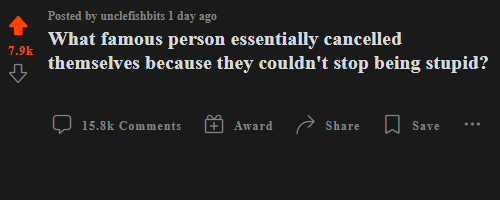
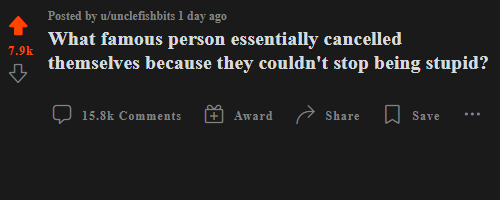
Fetch reddit comments and generate images

diff --git a/src/Puppeteer.ts b/src/Puppeteer.ts
@@ -1,11 +1,71 @@
-import puppeteer from "puppeteer";
+import puppeteer, { Page } from "puppeteer";
 import path from "path";
 import fs from "fs";
 import { IRedditPost } from "./Interface";
 import { formatUpvotes } from "./Utilts.js";
 
-export const go = async (post: IRedditPost) => {
-  const browser = await puppeteer.launch({ headless: false });
+export const startBrowser = async () => {
+  const browser = await puppeteer.launch();
+  const page = await browser.newPage();
+
+  return { browser, page };
+};
+
+export const openAnswer = async (page: Page, comment: IRedditPost) => {
+  await page.setViewport({ width: 470, height: 300, deviceScaleFactor: 10 });
+
+  const __dirname = path.resolve(path.dirname("."));
+  var content = fs.readFileSync(`${__dirname}/comment.html`, "utf-8");
+
+  const upvotesFormated = formatUpvotes(comment.upvotes);
+
+  const json = await fetch(
+    `https://www.reddit.com/user/${comment.author}/about.json`
+  );
+  const data = await json.json();
+  const icon = data.data.snoovatar_img;
+
+  content = content.replace("(AUTHOR)", comment.author);
+  content = content.replace("(TEXT)", comment.text);
+  content = content.replace("(UPVOTES)", upvotesFormated);
+  content = content.replace("(ICON)", icon);
+  const css = fs.readFileSync(`${__dirname}/stylescomment.css`, "utf-8");
+  content = content.replace("(STYLE)", css);
+
+  //Change local fonts to redit fonts
+  content = content.replace(
+    '"font.woff"',
+    `"https://www.redditstatic.com/desktop2x/fonts/redesignIcon2020/redesignFont2020.971ac4e47ee7863c9338c58b059a0c86.woff"`
+  );
+  content = content.replace(
+    '"font2.woff2"',
+    `"https://www.redditstatic.com/desktop2x/fonts/IBMPlexSans/Bold-875de5047556e7c822519d95d7ee692d-font.woff2"`
+  );
+  await page.setContent(content);
+
+  const headerElem = await page.$(".header");
+  const headerHeight = await headerElem.evaluate(
+    (e) => e.getBoundingClientRect().height
+  );
+
+  const bodyElem = await page.$(".main");
+  const bodyHeight = await bodyElem.evaluate(
+    (e) => e.getBoundingClientRect().height
+  );
+
+  await page.screenshot({
+    path: `Comments/comment-${comment.author}-${comment.upvotes}.png`,
+    clip: {
+      x: 0,
+      y: 0,
+      width: 470,
+      height: headerHeight + bodyHeight,
+    },
+  });
+};
+
+export const openQuestion = async (post: IRedditPost) => {
+  const browser = await puppeteer.launch();
   const page = await browser.newPage();
 
   await page.setViewport({
@@ -19,7 +79,7 @@ export const go = async (post: IRedditPost) => {
   const upvotesFormated = formatUpvotes(post.upvotes);
 
   //Load and format html with post information
-  content = content.replace("(SCORE)", upvotesFormated.toString());
+  content = content.replace("(SCORE)", upvotesFormated);
   content = content.replace("(AUTHOR)", post.author);
   content = content.replace("(TEXT)", post.text);
 
@@ -39,7 +99,7 @@ export const go = async (post: IRedditPost) => {
 
   await page.setContent(content);
 
-  await page.screenshot({ path: "example1.png" });
+  await page.screenshot({ path: "example1.png", fullPage: true });
 
   await browser.close();
 };

diff --git a/stylescomment.css b/stylescomment.css
@@ -1,0 +1,154 @@
+:root {
+    margin: 0px;
+    padding: 0px;
+    --main-text: #d7dadc;
+    --main-bg: #1a1a1b;
+    --main-action: #818384;
+    --main-red: #ff4500;
+    --main-line: #343536;
+}
+
+body {
+    background-color: var(--main-bg);
+    overflow: hidden;
+}
+
+@font-face {
+    font-family: "myfont";
+    src: url("font.woff") format("woff");
+}
+
+@font-face {
+    font-family: "text";
+    src: url("font2.woff2") format(".woff2");
+}
+
+@font-face {
+    font-family: "much";
+    src: url("https://www.redditstatic.com/desktop2x/fonts/NotoSans/Regular-d6a6aa8dc0f93416a832ea04a18c6fb8-font.woff2") format(".woff2");
+}
+
+.main {
+    display: flex;
+    flex-direction: column;
+    height: 100%;
+}
+
+.header {
+    display: flex;
+    flex-direction: row;
+    height: 28px;
+    align-items: center;
+}
+
+.header h1 {
+    font-size: 12px;
+    font-weight: 700;
+    font-family: "text";
+    color: var(--main-text);
+    margin-left: 4px;
+}
+
+.header span {
+    font-size: 12px;
+    font-weight: 700;
+    font-family: "text";
+    color: var(--main-action);
+    margin-left: 6px;
+    margin-right: 6px;
+}
+
+.header h2 {
+    font-size: 12px;
+    font-weight: 700;
+    font-family: "text";
+    color: var(--main-action);
+}
+
+.header img {
+    height: 28px;
+    width: 28px;
+}
+
+.bottom {
+    display: flex;
+    flex-direction: row;
+    height: 100%;
+}
+
+.bottom .line {
+    margin-top: 2px;
+    margin-left: 12px;
+    width: 2px;
+    min-height: 100%;
+    background-color: var(--main-line);
+}
+
+.main {
+    display: flex;
+    flex-direction: column;
+}
+
+.main p {
+    margin-left: 12px;
+    margin-right: 12px;
+    color: var(--main-text);
+    font-family: "much";
+    font-size: 14px;
+    font-weight: 600;
+    line-height: 21px;
+    letter-spacing: 0.5px;
+}
+
+.main .actions {
+    display: flex;
+    flex-direction: row;
+    align-items: center;
+}
+
+.arrow::before {
+    font-family: "myfont";
+    font-size: 20px;
+    margin-left: 8px;
+    margin-right: 8px;
+}
+
+.up::before {
+    content: "\f34d";
+    color: var(--main-red);
+    margin-left: 8px;
+    margin-right: 8px;
+}
+
+.down::before {
+    content: "\f197";
+    color: var(--main-action);
+}
+
+.icon::before {
+    font-family: "myfont";
+    font-size: 20px;
+    color: var(--main-action);
+}
+
+.reply::before {
+    content: "\f16f";
+}
+
+.main .actions .upvotes {
+    color: var(--main-red);
+    margin-right: 4px;
+    margin-left: 4px;
+}
+
+.main h3 {
+    font-size: 12px;
+    color: var(--main-action);
+    font-weight: 900;
+    margin-left: 8px;
+    letter-spacing: 1px;
+}
+
+.main h3 .replytext {
+    margin-left: 4px;
+}

diff --git a/comment.html b/comment.html
@@ -1,0 +1,44 @@
+<!DOCTYPE html>
+<html lang="en">
+
+<head>
+    <meta charset="UTF-8" />
+    <meta http-equiv="X-UA-Compatible" content="IE=edge" />
+    <meta name="viewport" content="width=device-width, initial-scale=4.0" />
+    <title>Document</title>
+    <link rel="stylesheet" href="stylescomment.css" />
+    <style>
+        (STYLE)
+    </style>
+</head>
+
+<body>
+    <div class="main">
+        <div class="header">
+            <img src="(ICON)" />
+            <h1>(AUTHOR)</h1>
+            <span>·</span>
+            <h2>1 day ago</h2>
+        </div>
+        <div class="bottom">
+            <span class="line"></span>
+            <div class="main">
+                <p>(TEXT)</p>
+                <div class="actions">
+                    <span class="arrow up"></span>
+                    <h3 class="upvotes">(UPVOTES)</h3>
+                    <span class="arrow down"></span>
+                    <span class="icon reply"></span>
+                    <h3 class="replytext">Reply</h3>
+                    <h3>Give Award</h3>
+                    <h3>Share</h3>
+                    <h3>Report</h3>
+                    <h3>Save</h3>
+                    <h3>Follow</h3>
+                </div>
+            </div>
+        </div>
+    </div>
+</body>
+
+</html>

diff --git a/src/Utilts.ts b/src/Utilts.ts
@@ -1,9 +1,22 @@
-export const formatUpvotes = (upvotes: number): number => {
+import { IRedditPost } from "./Interface";
+import { openAnswer, startBrowser } from "./Puppeteer.js";
+
+export const formatUpvotes = (upvotes: number): string => {
   if (upvotes < 1000) {
-    return upvotes;
+    return upvotes.toString();
   }
 
   const rounded = (upvotes / 1000).toPrecision(2);
 
-  return parseFloat(rounded);
+  return `${rounded}k`;
+};
+
+export const getMultipleImages = async (comments: IRedditPost[]) => {
+  const { page, browser } = await startBrowser();
+
+  for (var i = 0; i < comments.length; i++) {
+    await openAnswer(page, comments[i]);
+  }
+
+  browser.close();
 };

diff --git a/styles.css b/styles.css
@@ -54,7 +54,7 @@ p {
 h3 {
     color: var(--main-action);
     font-size: 12px;
-    font-weight: 600;
+    font-weight: 700;
     line-height: 16px;
     margin: 0px;
     margin-left: 14px;
@@ -75,7 +75,7 @@ h1 {
     display: flex;
     flex-direction: row;
     margin-left: 44px;
-    margin-top: 20px;
+    margin-top: 10px;
 }
 
 .icon::before {

diff --git a/index.ts b/index.ts
@@ -1,10 +1,11 @@
-import { go } from "./src/Puppeteer.js";
+import { openAnswer } from "./src/Puppeteer.js";
 import { getPost } from "./src/Reddit.js";
+import { getMultipleImages } from "./src/Utilts.js";
 
 const main = async () => {
   const post = await getPost();
 
-  go(post);
+  await getMultipleImages(post.comments);
 };
 
 main();

diff --git a/test.html b/test.html
@@ -20,7 +20,7 @@
             <span class="arrow down"></span>
         </div>
         <div>
-            <h3>Posted by (AUTHOR) 1 day ago</h3>
+            <h3>Posted by u/(AUTHOR) 1 day ago</h3>
             <h1>(TEXT)</h1>
         </div>
     </div>
